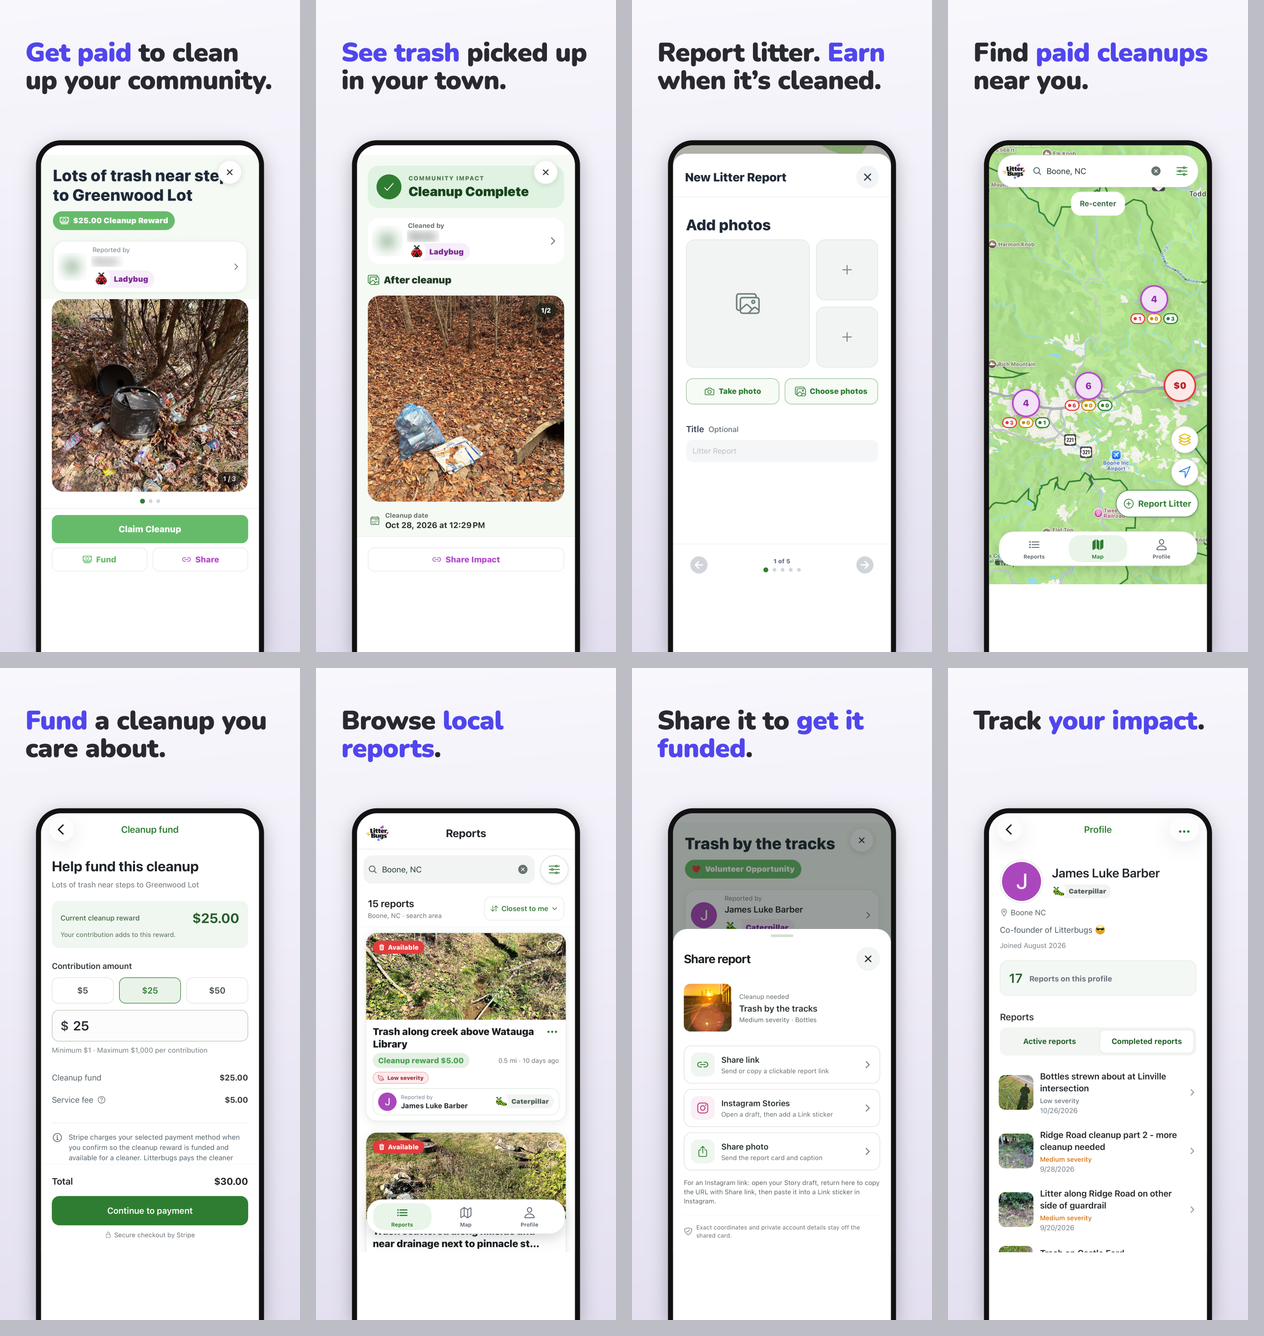
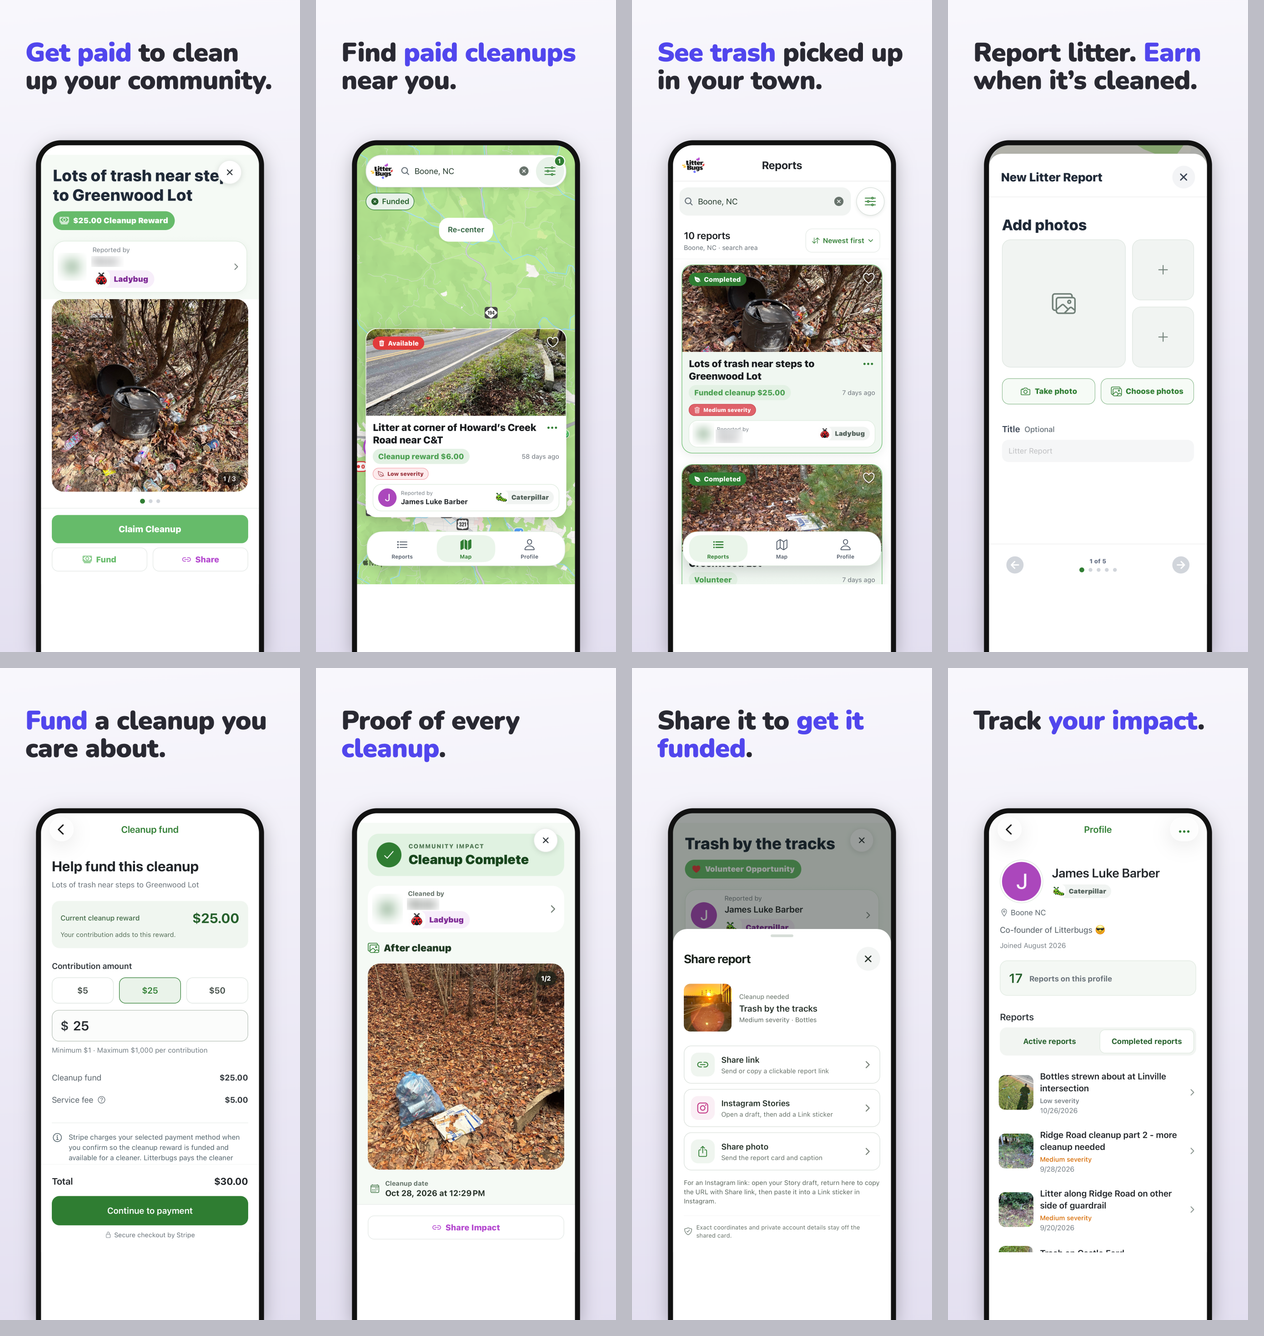
Rebuild store screenshots around paid cleanups

diff --git a/release-assets/store-screenshots-2026-11-05/README.md b/release-assets/store-screenshots-2026-11-05/README.md
@@ -11,10 +11,15 @@ Style: soft lavender background (the website's #f8f7fc to #e3dff0) with Nunito
 Black headlines, ink #292932 text and an indigo #5146ed keyword. The device frame
 is plain and the status bar is cropped, so the set suits both stores.
 
-Order: get paid, see trash picked up, report litter, find paid cleanups, fund a
-cleanup, local reports, share, track impact.
+Order: get paid ($25 cleanup reward), find paid cleanups (live $6 reward on the
+map), see trash picked up (completed "Funded cleanup $25.00"), report litter,
+fund a cleanup, proof of cleanup, share, track impact.
 
-Privacy: an outside cleaner's name and avatar letter are blurred on slides 1 and 2.
+Paid-cleanup captures in `source/` were taken November 5, 2026 from the
+production 2.0.1 iPhone simulator build, signed out, with the "Funded" filter on.
+
+Privacy: an outside cleaner's name and avatar letter are blurred on slides 1, 3
+and 6.
 
 Rebuild: `node render.cjs config.json`, run from this folder. It uses the repo's
 `sharp`, `playwright` and system Chrome.

diff --git a/docs/agent-handoff.md b/docs/agent-handoff.md
@@ -78,7 +78,7 @@ They cannot talk to each other directly. This file is how they share context.
   admin@ rather than support@.
 - Built new 8-image sets from real iPhone captures in website colors (lavender,
   no green, no purple): `release-assets/store-screenshots-2026-11-05/` (Apple
-  1320x2868, Google 1080x1920). The outside cleaner's name is blurred. Not
+  1320x2868, Google 1080x1920), led by paid cleanups captured Nov 5 from the 2.0.1 simulator build. The outside cleaner's name is blurred. Not
   uploaded; Apple upload needs Luke.
 
 ### 2026-11-05 — Codex (Clarity recording triage)
